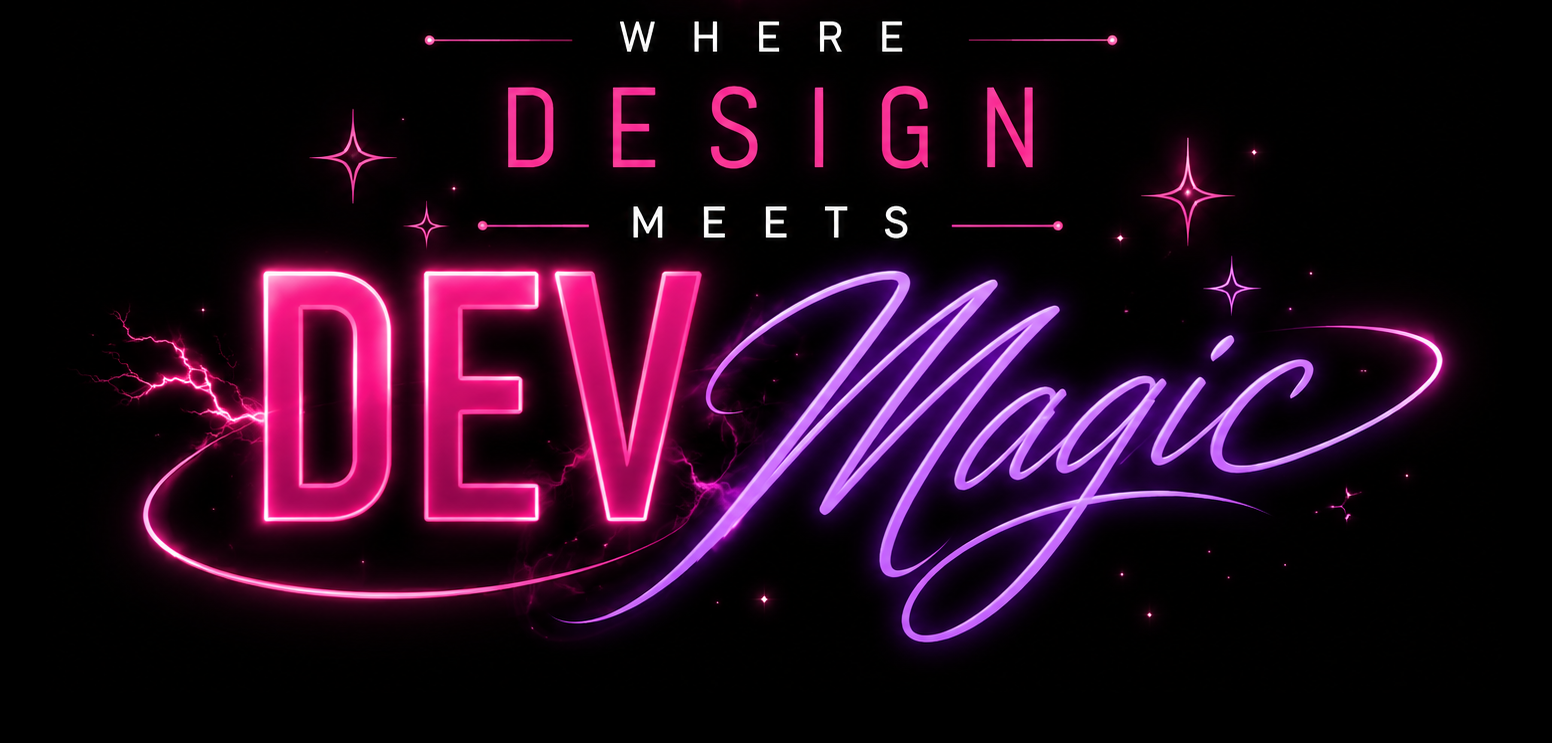
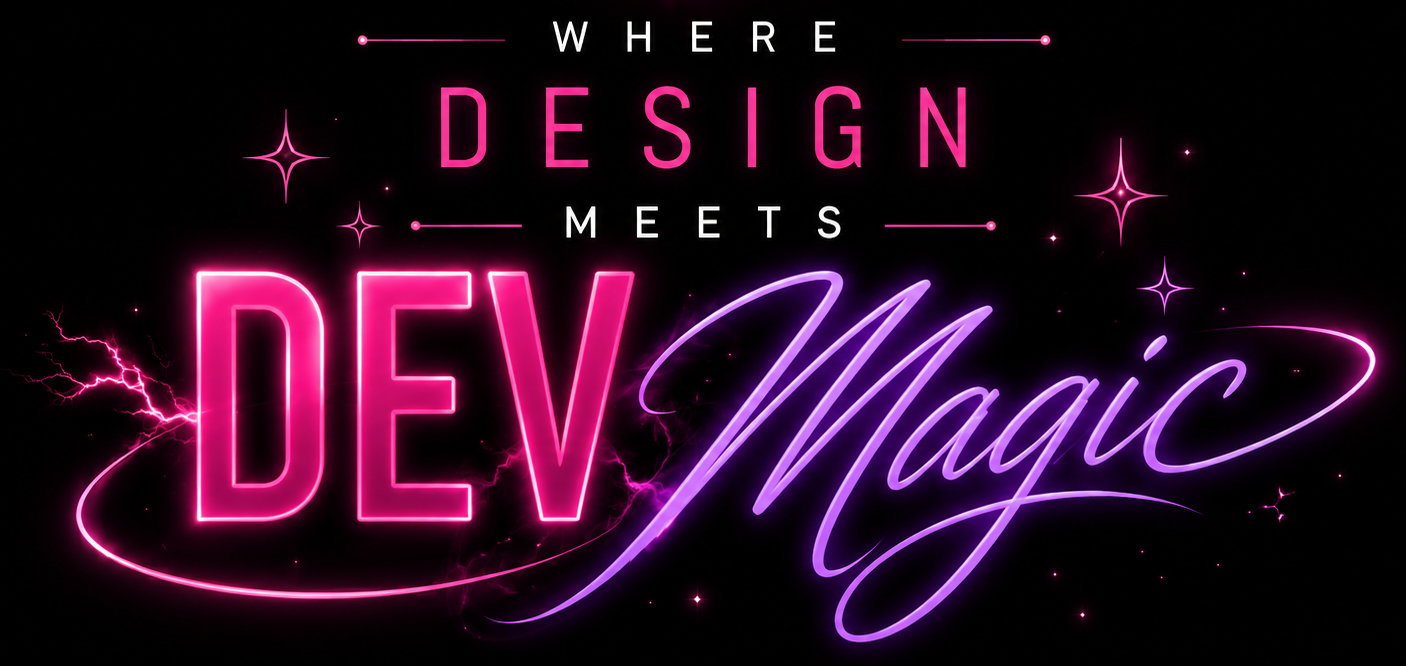
About update

diff --git a/src/pages/About.jsx b/src/pages/About.jsx
@@ -23,12 +23,12 @@ export default function About() {
             src={aboutHeroImg}
             alt="Where design meets dev magic"
             className="h-auto mx-auto"
-            style={{ width: "clamp(240px, 70vw, 600px)" }}
+            style={{ width: "clamp(240px, 70vw, 750px)" }}
           />
         </div>
 
         {/* Photo + text row: centered under the hero image, narrower measure. */}
-        <div className="max-w-[800px] mx-auto flex flex-col sm:flex-row items-start gap-8 sm:gap-6">
+        <div className="max-w-[575px] mx-auto flex flex-col sm:flex-row items-start gap-8 sm:gap-6">
           <div className="relative shrink-0 w-56 sm:w-60 lg:w-64 mx-auto sm:mx-0">
             <div
               className="absolute -inset-6 bg-castlepink/15 rounded-[2rem] blur-2xl -z-10"
